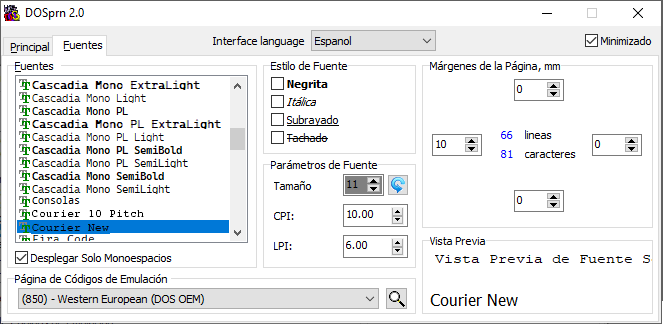
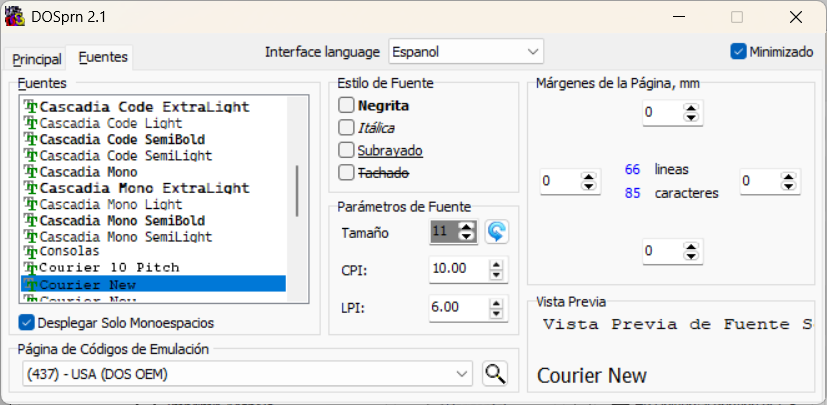
2.1

diff --git a/readme.htm b/readme.htm
@@ -1,5 +1,5 @@
 <!DOCTYPE HTML PUBLIC "-//W3C//DTD HTML 4.0 Transitional//EN">
-<HTML><HEAD><link rel="canonical" href="https://spanish.dosprn.com/readme.htm" /><TITLE>Manual de DOSPRN 2.0 y descripción de sus principales características</TITLE>
+<HTML><HEAD><link rel="canonical" href="https://spanish.dosprn.com/readme.htm" /><TITLE>Manual de DOSPRN 2.1 y descripción de sus principales características</TITLE>
 <META http-equiv=Content-Type content="text/html; charset=utf-8">
 <META http-equiv=Content-Language content=en-us>
 <META name=Keywords  content="DOS, printers, program, print, printer, USB, programs, LPT, DOS program, software, national, language, internanional" >
@@ -19,7 +19,7 @@
 <TABLE cellSpacing=0 cellPadding=6 width=50% style="max-width:640px" border=0>
   <TR>
     <TD width=100%>
-      <div style="float:left"><IMG src="images/logo.gif" ALT="DOS USB print under Windows 8, Windows 7, Windows XP, Windows2000, Windows98"> <font size="5"><b>&nbsp;DOSPRN&nbsp;2.0&nbsp;</b></font></div>
+      <div style="float:left"><IMG src="images/logo.gif" ALT="DOS USB print under Windows 8, Windows 7, Windows XP, Windows2000, Windows98"> <font size="5"><b>&nbsp;DOSPRN&nbsp;2.1&nbsp;</b></font></div>
   
       <table border="2" bgcolor="#C0C0C0" cellpadding="4" cellspacing="4">
         <tr>
@@ -55,7 +55,7 @@
       <P align=justify>DOSPRN se distribuye como <B>Shareware.</B> Puede aprender a usar DOSPRN durante el tiempo de prueba. Después de este período, debe registrar su copia o eliminarla completamente de su computadora con la utilidad de desinstalación en el Grupo de programas de la DOSPRN.</P>
       <h1 align=justify>Instalación</H3>
       <P align=justify>Descargue y ejecute el archivo autoextraíble <I>
-      <a href="https://www.dosprn.com/DOSprn200.exe">DOSprn200.exe</a></I>. 
+      <a href="https://www.dosprn.com/DOSprn210.exe">DOSprn210.exe</a></I>. 
       Se le harán algunas preguntas simples. Durante la instalación, DOSPRN copia todos los archivos y accesos directos necesarios en su computadora.</P>
       <h1 align=justify>Inicio del programa</H3>Puede iniciar DOSPRN haciendo clic en un acceso directo en su escritorio o en la carpeta 'Inicio' (en caso de que haya seleccionado esta opción durante la instalación). Después de iniciar DOSPRN, puede encontrar su icono en el área de la bandeja (cerca del reloj del sistema, generalmente en la esquina inferior derecha). <IMG src="images/trayw8.gif" ALT="Display icon and progress of printing in tray area" align=absMiddle border=0> DOSPRN listo para trabajar ahora. 
 

diff --git a/news.htm b/news.htm
@@ -1,5 +1,5 @@
 <!DOCTYPE HTML PUBLIC "-//W3C//DTD HTML 4.0 Transitional//EN">
-<HTML><HEAD><link rel="canonical" href="https://spanish.dosprn.com/news.htm" /><TITLE>DOSPRN 2.0 sección de novedades y correcciones de errores</TITLE>
+<HTML><HEAD><link rel="canonical" href="https://spanish.dosprn.com/news.htm" /><TITLE>DOSPRN 2.1 sección de novedades y correcciones de errores</TITLE>
 <META http-equiv=Content-Language content=en-us>
 <META http-equiv=Content-Type content="text/html; charset=utf-8">
 <META name=Keywords  content="dos print news, dos printer driver, dos printer, dos usb driver, dos print command, DOS, printers, program, print, printer, USB, programs, LPT, DOS program, software, national, language, internanional" >
@@ -20,7 +20,7 @@
 <TABLE cellSpacing=0 cellPadding=6 width=50% style="max-width:640px" border=0>
   <TR>
     <TD width=100%>
-      <div style="float:left"><IMG src="images/logo.gif" ALT="DOS USB print under Windows 8, Windows 7, Windows XP, Windows2000, Windows98"> <font size="5"><b>&nbsp;DOSPRN&nbsp;2.0&nbsp;</b></font></div>
+      <div style="float:left"><IMG src="images/logo.gif" ALT="DOS USB print under Windows 8, Windows 7, Windows XP, Windows2000, Windows98"> <font size="5"><b>&nbsp;DOSPRN&nbsp;2.1&nbsp;</b></font></div>
   
       <table border="2" bgcolor="#C0C0C0" cellpadding="4" cellspacing="4">
         <tr>
@@ -51,6 +51,15 @@
   <TR>
     <TD width="100%">
       <h1>Lo que es nuevo</H3>
+      <P><B>Versión 2.1</B></P>
+      + Plantilla de nombre de archivo <a href="pdf-settings.htm">Imprimir a PDF</a> mejorada<br>
+      + Integración mejorada con DOSBOX-X<br>
+      + Compatibilidad con formatos de papel no estándar en <a href="print-preview.htm">Vista previa de impresión</a> y la línea de comandos<br>
+      + Emulación de gráficos rasterizados en color de Epson Stylus añadida<br>
+      + Secuencias de escape y emulación de gráficos de Oki Microline añadidas<br>
+      + Nueva opción de línea de comandos <a href="command-line.htm">&quot;loadsettings&quot;</a><br>
+      * Compatibilidad mejorada con ordenadores equipados con dispositivos LPT reales<br>
+      * Corrección de errores menores<br>
       <P><B>Version 2.0</B></P>
       + Se agregó la opción <a href="print-preview.htm">Vista previa de impresión</a><br>
       + Se agregó la opción <a href="pdf-settings.htm">Imprimir en PDF</a><br>

diff --git a/download.htm b/download.htm
@@ -1,5 +1,5 @@
 <!DOCTYPE HTML PUBLIC "-//W3C//DTD HTML 4.0 Transitional//EN">
-<HTML><HEAD><link rel="canonical" href="https://spanish.dosprn.com/download.htm" /><TITLE>Descarga DOSPRN 2.0 ahora gratis</TITLE>
+<HTML><HEAD><link rel="canonical" href="https://spanish.dosprn.com/download.htm" /><TITLE>Descarga DOSPRN 2.1 ahora gratis</TITLE>
 <META http-equiv=Content-Language content=en-us>
 <META http-equiv=Content-Type content="text/html; charset=utf-8">
 <META name=Keywords content="dos print usb, dos print download, dos printer, dos usb driver, dos print command, DOS, printers, printer USB, LPT, DOS program" >
@@ -19,7 +19,7 @@
 <TABLE cellSpacing=0 cellPadding=6 width=50% style="max-width:640px" border=0>
   <TR>
     <TD width=100%>
-      <div style="float:left"><IMG src="images/logo.gif" ALT="DOS USB print under Windows 10, Windows 8, Windows 7, Windows XP, Windows2000, Windows98"> <font size="5"><b>&nbsp;DOSPRN&nbsp;2.0&nbsp;</b></font></div>
+      <div style="float:left"><IMG src="images/logo.gif" ALT="DOS USB print under Windows 10, Windows 8, Windows 7, Windows XP, Windows2000, Windows98"> <font size="5"><b>&nbsp;DOSPRN&nbsp;2.1&nbsp;</b></font></div>
   
       <table border="2" bgcolor="#C0C0C0" cellpadding="4" cellspacing="4">
         <tr>
@@ -53,9 +53,9 @@
       <p>DOSPRN es un shareware completamente funcional. Está diseñado para admitir la impresión desde aplicaciones DOS. Puede hacer uso de todas las <b>características</b> de DOSPRN antes de comprar. Debe estar convencido de que DOSPRN puede resolver su problema con la impresión de DOS antes de <a href="order.htm">comprar</a>.</p> <p>Le recomendamos encarecidamente que revise a fondo el <a href="readme.htm">manual de DOSPRN</a> y nuestras <a href="faq.htm">FAQ</a>.<br>
       <br>
 
-      <a href="https://www.dosprn.com/DOSprn200.exe">
+      <a href="https://www.dosprn.com/DOSprn210.exe">
 
-      <center>Clic aquí y descargue el archivo <i>DOSprn200.exe (2.0 Mb)</i></a></center>
+      <center>Clic aquí y descargue el archivo <i>DOSprn210.exe (2.0 Mb)</i></a></center>
 		<br>
       <br>
       DOSPRN le recordará el registro cada vez que imprima un informe desde su aplicación DOS. Si tiene alguna pregunta sobre la DOSPRN, no dude en <a href="mailto:support&#064dosprn.com">contactarnos</a>.</p>

diff --git a/login.htm b/login.htm
@@ -1,5 +1,5 @@
 <!DOCTYPE HTML PUBLIC "-//W3C//DTD HTML 4.0 Transitional//EN">
-<HTML><HEAD><link rel="canonical" href="https://spanish.dosprn.com/login.htm" /><TITLE>Inicio de sesión de usuarios registrados de DOSPRN 2.0</TITLE>
+<HTML><HEAD><link rel="canonical" href="https://spanish.dosprn.com/login.htm" /><TITLE>Inicio de sesión de usuarios registrados de DOSPRN 2.1</TITLE>
 <META http-equiv=Content-Language content=en-us>
 <META http-equiv=Content-Type content="text/html; charset=windows-1252">
 <META name=Keywords  content="dos printer driver, dos printer, dos usb driver, dos print command, DOS, printers, program, print, printer, USB, programs, LPT, DOS program, software, national, language, internanional" >
@@ -72,7 +72,7 @@ input {
 <TABLE cellSpacing=0 cellPadding=6 width=50% style="max-width:640px" border=0>
   <TR>
     <TD width=100%>
-      <div style="float:left"><IMG src="images/logo.gif" ALT="DOS USB print under Windows 8, Windows 7, Windows XP, Windows2000, Windows98"> <font size="5"><b>&nbsp;DOSPRN&nbsp;2.0&nbsp;</b></font></div>
+      <div style="float:left"><IMG src="images/logo.gif" ALT="DOS USB print under Windows 8, Windows 7, Windows XP, Windows2000, Windows98"> <font size="5"><b>&nbsp;DOSPRN&nbsp;2.1&nbsp;</b></font></div>
   
       <table border="2" bgcolor="#C0C0C0" cellpadding="4" cellspacing="4">
         <tr>
@@ -94,7 +94,7 @@ input {
       <HR><font size="+1">
       <A href="dos-print.htm">About</A> &nbsp;||&nbsp; <A 
       href="readme.htm">Manual</A> &nbsp;||&nbsp; <A href="news.htm">What's New</A> &nbsp;||&nbsp; <A 
-      href="download.htm"><img src="images/new.png" alt="DOSPRN 2.0 release" />Download</A> &nbsp;||&nbsp; <A href="vox.htm">Vox populi</A> &nbsp;||&nbsp; <A href="order.htm">Order</A> &nbsp;||&nbsp; <A
+      href="download.htm"><img src="images/new.png" alt="DOSPRN 2.1 release" />Download</A> &nbsp;||&nbsp; <A href="vox.htm">Vox populi</A> &nbsp;||&nbsp; <A href="order.htm">Order</A> &nbsp;||&nbsp; <A
       href="faq.htm">FAQ</A> &nbsp;||&nbsp; <A href="story.htm">Story</A> &nbsp;||&nbsp; <A href="mailto:support&#064dosprn.com?Subject=DOSPRN&#032support">
       Support</A> &nbsp;||&nbsp; <A href="login.htm">Login</A>
       </font><HR>

diff --git a/awards.htm b/awards.htm
@@ -1,5 +1,5 @@
 <!DOCTYPE HTML PUBLIC "-//W3C//DTD HTML 4.0 Transitional//EN">
-<HTML><HEAD><link rel="canonical" href="https://spanish.dosprn.com/awards.htm" /><TITLE>Premios DOSPRN 2.0. C�mo se clasifica nuestro software por directorios</TITLE>
+<HTML><HEAD><link rel="canonical" href="https://spanish.dosprn.com/awards.htm" /><TITLE>Premios DOSPRN 2.1. C�mo se clasifica nuestro software por directorios</TITLE>
 <META http-equiv=Content-Language content=en-us>
 <META http-equiv=Content-Type content="text/html; charset=utf-8">
 <META name=Description content="El software DOSPRN ha sido premiado por los directorios de software como 5 estrellas y es seguro de instalar">
@@ -19,7 +19,7 @@
 <TABLE cellSpacing=0 cellPadding=6 width=50% style="max-width:640px" border=0>
   <TR>
     <TD width=100%>
-      <div style="float:left"><IMG src="images/logo.gif" ALT="DOS USB print under Windows 8, Windows 7, Windows XP, Windows2000, Windows98"> <font size="5"><b>&nbsp;DOSPRN&nbsp;2.0&nbsp;</b></font></div>
+      <div style="float:left"><IMG src="images/logo.gif" ALT="DOS USB print under Windows 8, Windows 7, Windows XP, Windows2000, Windows98"> <font size="5"><b>&nbsp;DOSPRN&nbsp;2.1&nbsp;</b></font></div>
   
       <table border="2" bgcolor="#C0C0C0" cellpadding="4" cellspacing="4">
         <tr>
@@ -65,7 +65,6 @@
 </tr><tr>    
 <td><a href="https://www.windows7download.com/win7-dosprn/asvtgddo.html" target="_blank"><img src="https://www.windows7download.com/templates/w7d/images/awards/award_5.png" alt="Windows 7 Download" border="0"/></a></td>
 <td><a href="https://dosprn.findmysoft.com/"><img src="https://www.findmysoft.com/review2_4_DOSPRN_award.png" border="0" alt="DOSPRN review from FindMySoft"></a></td>
-<td><a href="https://www.bestvistadownloads.com/software/t-free-dosprn-download-dmxathbj.html"><img src="images/award_5.gif" alt="5 Stars Awarded on Best Vista Downloads" border="0"></a></td>
 <td><a href="https://www.softpedia.com/get/Office-tools/Other-Office-Tools/DOSPRN.shtml"><img src="images/softpedia_pick_award_m.gif" border="0" alt="Excellent product"></a></td>
 </tr></table>
 </center>

diff --git a/order.htm b/order.htm
@@ -1,5 +1,5 @@
 <!DOCTYPE HTML PUBLIC "-//W3C//DTD HTML 4.0 Transitional//EN">
-<HTML><HEAD><link rel="canonical" href="https://spanish.dosprn.com/order.htm" /><TITLE>Solicite DOSPRN 2.0 en línea. Ofrecemos descuentos al por mayor.</TITLE>
+<HTML><HEAD><link rel="canonical" href="https://spanish.dosprn.com/order.htm" /><TITLE>Solicite DOSPRN 2.1 en línea. Ofrecemos descuentos al por mayor.</TITLE>
 <META http-equiv=Content-Language content=en-us>
 <META http-equiv=Content-Type content="text/html; charset=utf-8">
 <META name=Keywords content="DOS print order, DOS2usb purchase, DOS printers, program, print, printer, DOS USB, programs, LPT, DOS program, DOS software">
@@ -20,7 +20,7 @@
 <TABLE cellSpacing=0 cellPadding=6 width=50% style="max-width:640px" border=0>
   <TR>
     <TD width=100%>
-      <div style="float:left"><IMG src="images/logo.gif" ALT="DOS USB print under Windows 8, Windows 7, Windows XP, Windows2000, Windows98"> <font size="5"><b>&nbsp;DOSPRN&nbsp;2.0&nbsp;</b></font></div>
+      <div style="float:left"><IMG src="images/logo.gif" ALT="DOS USB print under Windows 8, Windows 7, Windows XP, Windows2000, Windows98"> <font size="5"><b>&nbsp;DOSPRN&nbsp;2.1&nbsp;</b></font></div>
   
       <table border="2" bgcolor="#C0C0C0" cellpadding="4" cellspacing="4">
         <tr>
@@ -67,7 +67,7 @@ Después del vencimiento del período de prueba, debe registrar este programa.</
 
       <P>
       If your DOSPRN's trial period has been expired now you can download and install
-      a <a href="https://www.dosprn.com/DOSprn200.exe">special "vacation" build</a> of DOSPRN 2.0. The trial period will be 
+      a <a href="https://www.dosprn.com/DOSprn210.exe">special "vacation" build</a> of DOSPRN 2.1. The trial period will be 
       expanded up to August, 1.
       </P>
 -->

diff --git a/vox.htm b/vox.htm
@@ -1,5 +1,5 @@
 <!DOCTYPE HTML PUBLIC "-//W3C//DTD HTML 4.0 Transitional//EN">
-<HTML><HEAD><link rel="canonical" href="https://spanish.dosprn.com/vox.htm" /><TITLE>Testimonios y rese�as de usuarios de DOSPRN 2.0</TITLE>
+<HTML><HEAD><link rel="canonical" href="https://spanish.dosprn.com/vox.htm" /><TITLE>Testimonios y rese�as de usuarios de DOSPRN 2.1</TITLE>
 <META http-equiv=Content-Language content=en-us>
 <META http-equiv=Content-Type content="text/html; charset=utf-8">
 <META name=Description content="What spoke ordinary users and writers in technical reviews about DOSPRN software">
@@ -20,7 +20,7 @@
 <TABLE cellSpacing=0 cellPadding=6 width=50% style="max-width:640px" border=0>
   <TR>
     <TD width=100%>
-      <div style="float:left"><IMG src="images/logo.gif" ALT="DOS USB print under Windows 8, Windows 7, Windows XP, Windows2000, Windows98"> <font size="5"><b>&nbsp;DOSPRN&nbsp;2.0&nbsp;</b></font></div>
+      <div style="float:left"><IMG src="images/logo.gif" ALT="DOS USB print under Windows 8, Windows 7, Windows XP, Windows2000, Windows98"> <font size="5"><b>&nbsp;DOSPRN&nbsp;2.1&nbsp;</b></font></div>
   
       <table border="2" bgcolor="#C0C0C0" cellpadding="4" cellspacing="4">
         <tr>
@@ -150,7 +150,7 @@
           </td>
         </tr>
         <tr>
-          <td><i>Francis G. McCloskey &lt;FrFrancis&#64;OhSaratoga.com&gt;</i><p>&quot;...A small bunch of us are still using DOSprn 2.0 with out DOS EnableOA program and think it's 
+          <td><i>Francis G. McCloskey &lt;FrFrancis&#64;OhSaratoga.com&gt;</i><p>&quot;...A small bunch of us are still using DOSPRN 2.1 with out DOS EnableOA program and think it's 
 	  the best DOS to Windows printers program out there..........&quot;</p>
           <hr width="90%" color="#008000">
           </td>

diff --git a/eula.htm b/eula.htm
@@ -20,7 +20,7 @@
 <TABLE cellSpacing=0 cellPadding=6 width=50% style="max-width:640px" border=0>
   <TR>
     <TD width=100%>
-      <div style="float:left"><IMG src="images/logo.gif" ALT="DOS USB print under Windows 8, Windows 7, Windows XP, Windows2000, Windows98"> <font size="5"><b>&nbsp;DOSPRN&nbsp;2.0&nbsp;</b></font></div>
+      <div style="float:left"><IMG src="images/logo.gif" ALT="DOS USB print under Windows 8, Windows 7, Windows XP, Windows2000, Windows98"> <font size="5"><b>&nbsp;DOSPRN&nbsp;2.1&nbsp;</b></font></div>
   
       <table border="2" bgcolor="#C0C0C0" cellpadding="4" cellspacing="4">
         <tr>
@@ -43,7 +43,7 @@
       <HR><font size="+1">
       <A href="dos-print.htm">About</A> &nbsp;||&nbsp; <A 
       href="readme.htm">Manual</A> &nbsp;||&nbsp; <A href="news.htm">What's New</A> &nbsp;||&nbsp; <A 
-      href="download.htm"><img src="images/new.png" alt="DOSPRN 2.0 pre-release" />Download</A> &nbsp;||&nbsp; <A href="vox.htm">Vox populi</A> &nbsp;||&nbsp; <A href="order.htm">Order</A> &nbsp;||&nbsp; <A
+      href="download.htm"><img src="images/new.png" alt="DOSPRN 2.1 pre-release" />Download</A> &nbsp;||&nbsp; <A href="vox.htm">Vox populi</A> &nbsp;||&nbsp; <A href="order.htm">Order</A> &nbsp;||&nbsp; <A
       href="faq.htm">FAQ</A> &nbsp;||&nbsp; <A href="story.htm">Story</A> &nbsp;||&nbsp; <A href="mailto:support&#064dosprn.com?Subject=DOSPRN&#032support">
       Support</A> &nbsp;||&nbsp; <A href="login.htm">Login</A>
       </font><HR>

diff --git a/privacy.htm b/privacy.htm
@@ -20,7 +20,7 @@
 <TABLE cellSpacing=0 cellPadding=6 width=50% style="max-width:640px" border=0>
   <TR>
     <TD width=100%>
-      <div style="float:left"><IMG src="images/logo.gif" ALT="DOS USB print under Windows 8, Windows 7, Windows XP, Windows2000, Windows98"> <font size="5"><b>&nbsp;DOSPRN&nbsp;2.0&nbsp;</b></font></div>
+      <div style="float:left"><IMG src="images/logo.gif" ALT="DOS USB print under Windows 8, Windows 7, Windows XP, Windows2000, Windows98"> <font size="5"><b>&nbsp;DOSPRN&nbsp;2.1&nbsp;</b></font></div>
   
       <table border="2" bgcolor="#C0C0C0" cellpadding="4" cellspacing="4">
         <tr>
@@ -43,7 +43,7 @@
       <HR><font size="+1">
       <A href="dos-print.htm">About</A> &nbsp;||&nbsp; <A 
       href="readme.htm">Manual</A> &nbsp;||&nbsp; <A href="news.htm">What's New</A> &nbsp;||&nbsp; <A 
-      href="download.htm"><img src="images/new.png" alt="DOSPRN 2.0 pre-release" />Download</A> &nbsp;||&nbsp; <A href="vox.htm">Vox populi</A> &nbsp;||&nbsp; <A href="order.htm">Order</A> &nbsp;||&nbsp; <A
+      href="download.htm"><img src="images/new.png" alt="DOSPRN 2.1 pre-release" />Download</A> &nbsp;||&nbsp; <A href="vox.htm">Vox populi</A> &nbsp;||&nbsp; <A href="order.htm">Order</A> &nbsp;||&nbsp; <A
       href="faq.htm">FAQ</A> &nbsp;||&nbsp; <A href="story.htm">Story</A> &nbsp;||&nbsp; <A href="mailto:support&#064dosprn.com?Subject=DOSPRN&#032support">
       Support</A> &nbsp;||&nbsp; <A href="login.htm">Login</A>
       </font><HR>

diff --git a/sequences.htm b/sequences.htm
@@ -1,5 +1,5 @@
 <!DOCTYPE HTML PUBLIC "-//W3C//DTD HTML 4.0 Transitional//EN">
-<HTML><HEAD><link rel="canonical" href="https://spanish.dosprn.com/sequences.htm" /><TITLE>Secuencias ESC compatibles con DOSPRN 2.0</TITLE>
+<HTML><HEAD><link rel="canonical" href="https://spanish.dosprn.com/sequences.htm" /><TITLE>Secuencias ESC compatibles con DOSPRN 2.1</TITLE>
 <META http-equiv=Content-Type content="text/html; charset=utf-8">
 <META name=Keywords  content="dos printer driver, dos printer, dos usb driver, dos print command, DOS, printers, program, print, printer, USB, programs, LPT, DOS program, software, national, language, internanional" >
 <META name=Description  content="DOSPRN allow to use your old favorite DOS program with new printers independently of their types (yes, and USB also !)" >
@@ -19,7 +19,7 @@
 <TABLE cellSpacing=0 cellPadding=6 width=50% style="max-width:640px" border=0>
 <TR>
 	<TD width=100%>
-	<div style="float:left"><IMG src="images/logo.gif" ALT="DOS USB print under Windows 8, Windows 7, Windows XP, Windows2000, Windows98"> <font size="5"><b>&nbsp;DOSPRN&nbsp;2.0&nbsp;</b></font></div>
+	<div style="float:left"><IMG src="images/logo.gif" ALT="DOS USB print under Windows 8, Windows 7, Windows XP, Windows2000, Windows98"> <font size="5"><b>&nbsp;DOSPRN&nbsp;2.1&nbsp;</b></font></div>
   
 	<table border="2" bgcolor="#C0C0C0" cellpadding="4" cellspacing="4">
         <tr>

diff --git a/inline-qrcode.htm b/inline-qrcode.htm
@@ -1,5 +1,5 @@
 <!DOCTYPE HTML PUBLIC "-//W3C//DTD HTML 4.0 Transitional//EN">
-<HTML><HEAD><link rel="canonical" href="https://spanish.dosprn.com/inline-qrcode.htm" /><TITLE>DOSPRN 2.0 qrcode en línea permite crear códigos QR</TITLE>
+<HTML><HEAD><link rel="canonical" href="https://spanish.dosprn.com/inline-qrcode.htm" /><TITLE>DOSPRN 2.1 qrcode en línea permite crear códigos QR</TITLE>
 <META http-equiv=Content-Language content=en-us>
 <META http-equiv=Content-Type content="text/html; charset=utf-8">
 <META name=Keywords  content="inline qrcode, DOS report bitmap, dos print command, DOS, printers, program, print, printer, USB, programs, LPT, DOS program, software, national, language, qr-code" >
@@ -20,7 +20,7 @@
 <TABLE cellSpacing=0 cellPadding=6 width=50% style="max-width:640px" border=0>
   <TR>
     <TD width=100%>
-      <div style="float:left"><IMG src="images/logo.gif" ALT="DOS USB print under Windows 11, Windows 10, Windows 8, Windows 7, Windows XP, Windows2000, Windows98"> <font size="5"><b>&nbsp;DOSPRN&nbsp;2.0&nbsp;</b></font></div>
+      <div style="float:left"><IMG src="images/logo.gif" ALT="DOS USB print under Windows 11, Windows 10, Windows 8, Windows 7, Windows XP, Windows2000, Windows98"> <font size="5"><b>&nbsp;DOSPRN&nbsp;2.1&nbsp;</b></font></div>
   
       <table border="2" bgcolor="#C0C0C0" cellpadding="4" cellspacing="4">
         <tr>

diff --git a/dosprint.htm b/dosprint.htm
@@ -22,7 +22,7 @@
 <TABLE cellSpacing=0 cellPadding=6 width=50% style="max-width:640px" border=0>
   <TR>
     <TD width=100%>
-      <div style="float:left"><IMG src="images/logo.gif" ALT="DOS USB print under Windows 8, Windows 7, Windows XP, Windows2000, Windows98"> <font size="5"><b>&nbsp;DOSPRN&nbsp;2.0&nbsp;</b></font></div>
+      <div style="float:left"><IMG src="images/logo.gif" ALT="DOS USB print under Windows 8, Windows 7, Windows XP, Windows2000, Windows98"> <font size="5"><b>&nbsp;DOSPRN&nbsp;2.1&nbsp;</b></font></div>
   
       <table border="2" bgcolor="#C0C0C0" cellpadding="4" cellspacing="4">
         <tr>
@@ -58,7 +58,7 @@
       <P>DOSPRN ayuda a extender la vida de los viejos programas de DOS. Este programa le permite imprimir informes desde un buen programa antiguo de DOS en <b>nuevas impresoras</b> independientemente de sus tipos (Sí, USB y impresoras de red, servidores de impresión e impresoras PDF también).</P>
       <P align=center><IMG height=150 src="images/fontsw8.png" ALT="Windows TrueType fonts selectable" width=291></P>
       <P>DOSPRN se distribuye como shareware. Descargalo <I><B>
-      <A href="https://www.dosprn.com/DOSprn200.exe">
+      <A href="https://www.dosprn.com/DOSprn210.exe">
       AHORA</A></B></I> y haga que DOS imprima sin dos2usb libre.
       </P></TD></TR>
   <TR>
